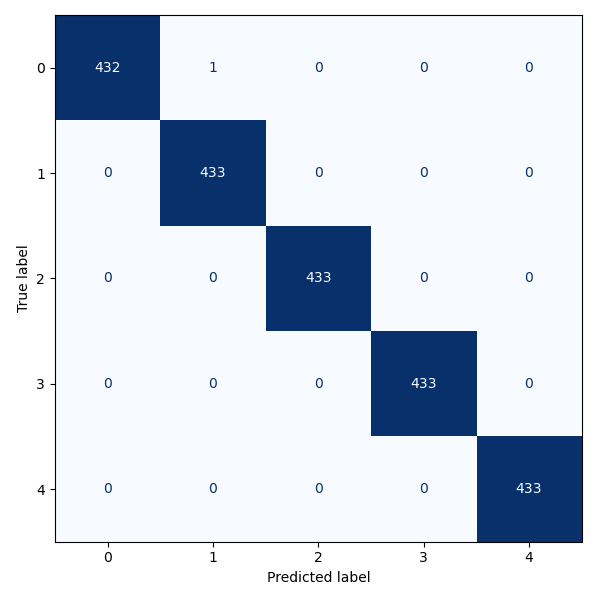
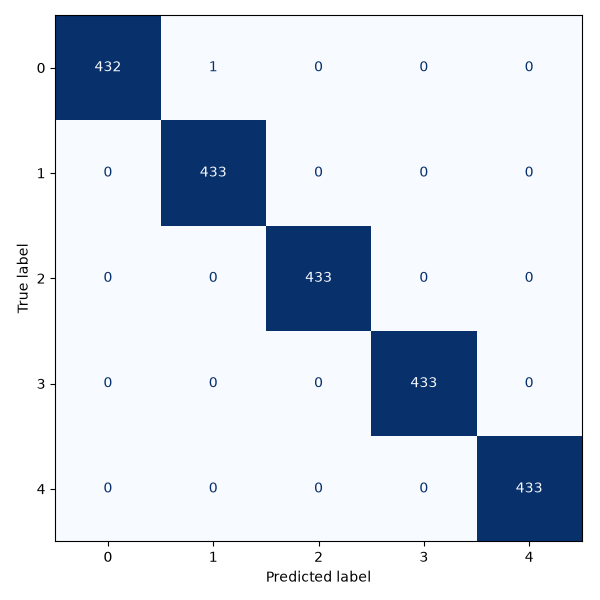
Fix: config.py 및 주석 수정 #10

diff --git a/planet-keeper/data-pipeline/ML-Scripts/config.py b/planet-keeper/data-pipeline/ML-Scripts/config.py
@@ -31,10 +31,11 @@ DATA_PIPELINE_DIR = ML_SCRIPTS_DIR.parent
 DATASETS_DIR = DATA_PIPELINE_DIR / "Datasets"
 MODELS_DIR = DATA_PIPELINE_DIR / "Models"
 
-# 지금은 임시 데이터셋, 물리엔진 결과가 합쳐지면 FINAL_DATASET으로 바꿔서 사용
-CURRENT_DATASET = DATASETS_DIR / "ml_dataset.csv"
 FINAL_DATASET = DATASETS_DIR / "final_ml_dataset.csv"
 TEST_SPLIT_DATASET = DATASETS_DIR / "test_split.csv"
+
+# 물리엔진 결과가 합쳐진 최종 데이터셋을 기본값으로 사용
+CURRENT_DATASET = FINAL_DATASET
 
 MODEL_PKL = MODELS_DIR / "climate_rf.pkl"
 MODEL_ONNX = MODELS_DIR / "climate_rf.onnx"

diff --git a/planet-keeper/data-pipeline/ML-Scripts/inference.py b/planet-keeper/data-pipeline/ML-Scripts/inference.py
@@ -6,7 +6,7 @@ onnxruntime으로 climate_rf.onnx를 로드하고, 입력 CSV의 한 행(FEATURE
 
 사용법:
     python3 export_onnx.py                      # 먼저 실행해서 climate_rf.onnx를 만들어둘 것
-    python3 inference.py ../Datasets/ml_dataset.csv --row 0
+    python3 inference.py ../Datasets/test_split.csv --row 0
 """
 
 import argparse
